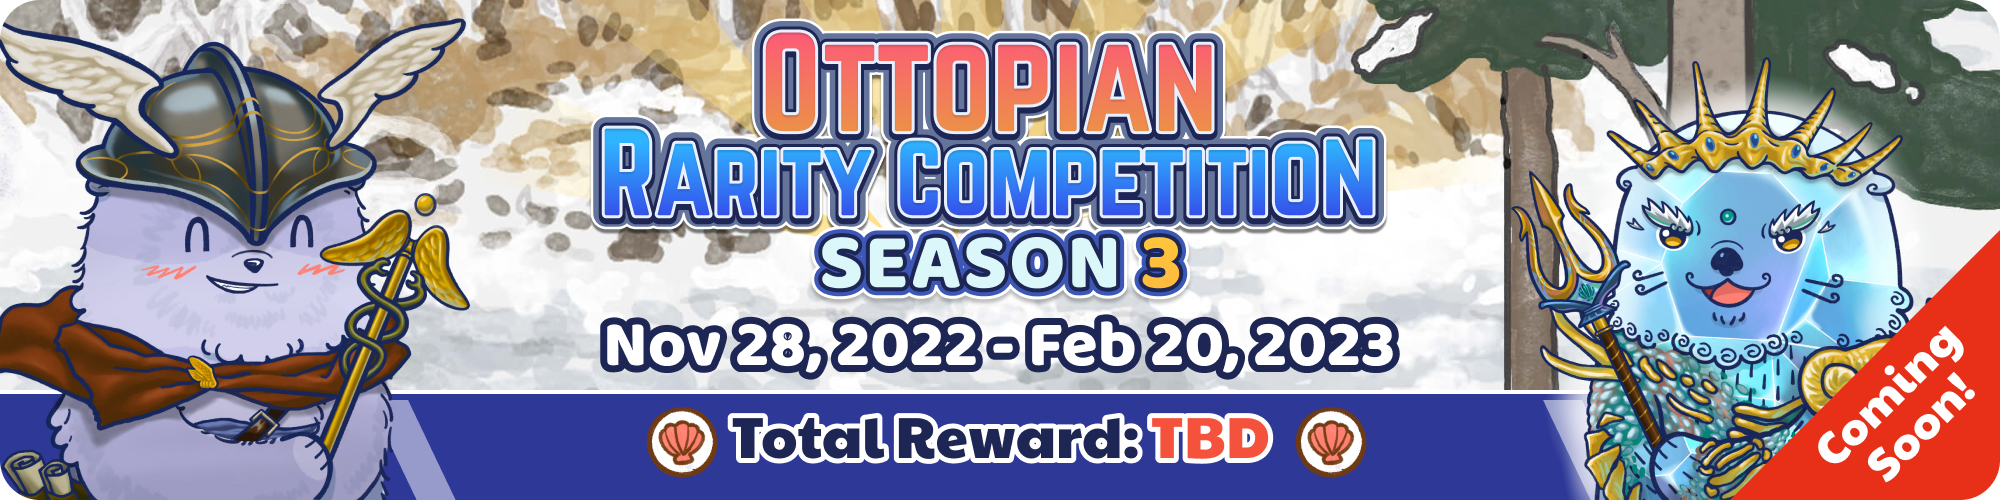
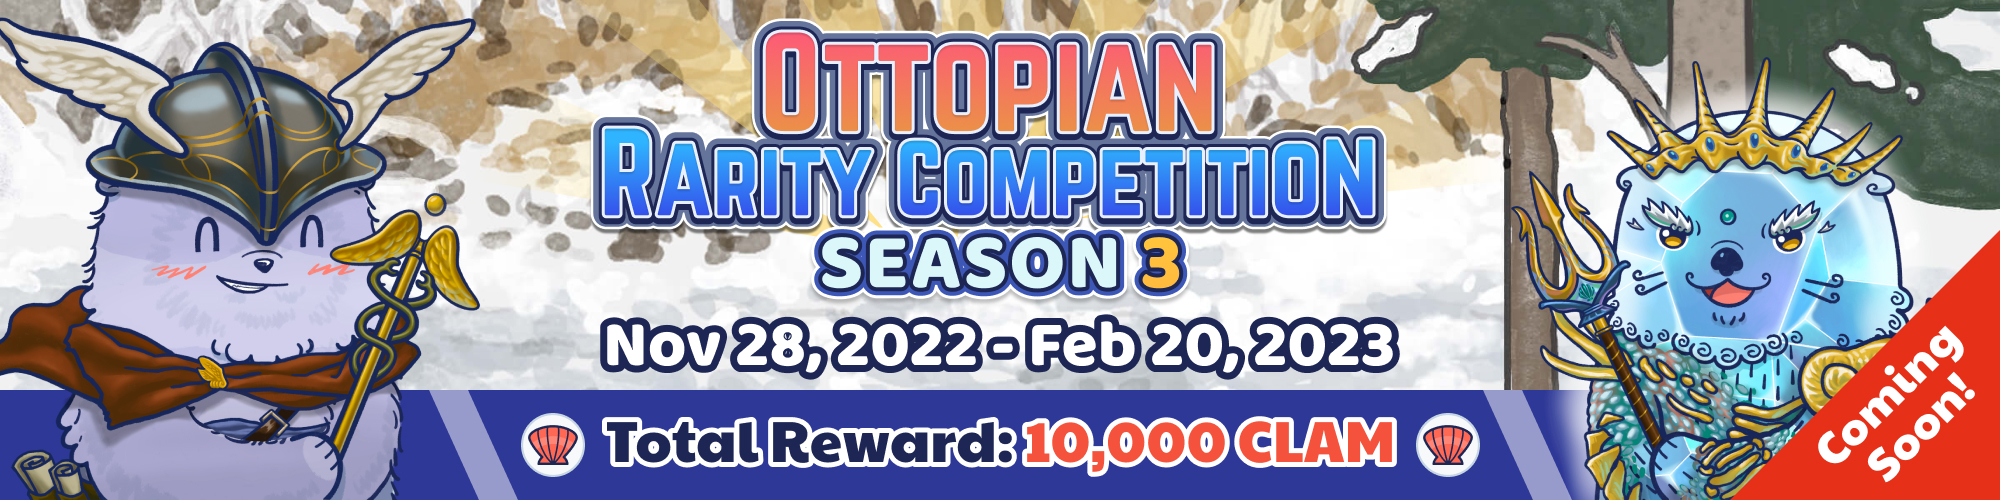
update leaderboard images

Changed region(s): [[0.0, 0.0, 0.806, 1.0], [0.961, 0.93, 1.0, 1.0], [0.992, 0.0, 1.0, 0.06]]

diff --git a/docs/ottopia/events/adventure-competition-s1.md b/docs/ottopia/events/adventure-competition-s1.md
@@ -2,11 +2,11 @@
 
 <header>
 <meta property="og:title" content="Ottopia Whitepaper | Adventure Leaderboard - Season 1" />
-<meta property="og:image" content="https://docs.ottopia.app/assets/images/s2-ror-c98d306bc5f6ab73e4fb746844fd06d6.jpg" />
+<meta property="og:image" content="https://docs.ottopia.app/assets/images/ap_s1-83532c477bb00c1cc2a9cf3793569b8a.jpg" />
 <meta property="og:description" content="Gather ‘round the stream, Otters! Season 1 of the Adventure Leaderboard is here, pack your bags and get ready to become the king of the adventure!" />
 </header>
 
-![Adventure Leaderboard - Season 1](img/ap_s1.jpg)
+![Adventure Leaderboard - Season 1](img/1st-al-ogimage.jpg)
 
 ## Introduction
 

diff --git a/docs/ottopia/events/rarity-competition-s3.md b/docs/ottopia/events/rarity-competition-s3.md
@@ -6,7 +6,7 @@
 <meta property="og:description" content="Gather ‘round the stream, Otters! Season 3 of the Rarity Competition is here, and will add another layer of depth to the contest - theme systems and a new bonus mechanism." />
 </header>
 
-![Rarity Competition - Season 3](img/s3-ror.jpg)
+![Rarity Competition - Season 3](img/3rd-ror-ogimage.jpg)
 
 ## Introduction
 
